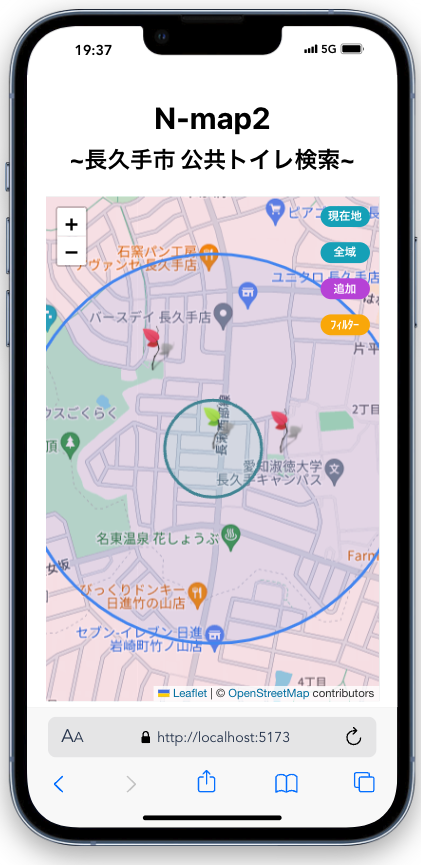
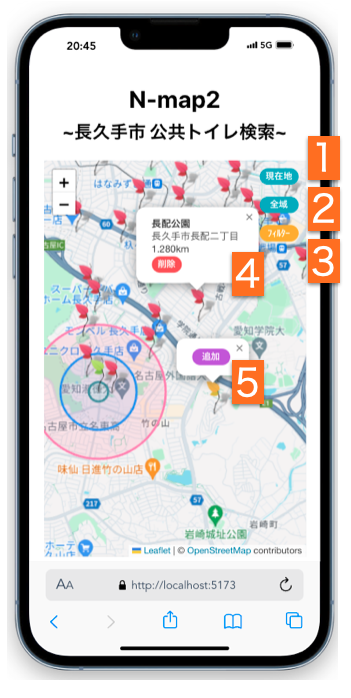
README 修正

diff --git a/frontend/src/components/Map/Map.jsx b/frontend/src/components/Map/Map.jsx
@@ -122,7 +122,7 @@ export const Map = (props) => {
     });
 
     return position === null ? null : (
-      <Marker position={position} icon={addIcon} draggable={true}>
+      <Marker position={position} icon={addIcon}>
         <Popup>
           <AddPoint position={position}></AddPoint>
         </Popup>

diff --git a/README.md b/README.md
@@ -47,9 +47,9 @@ https://github.com/YoshikiNishizuka/btc6-solo-nmap
 - 起動後、現在地を中心とした地図と**長久手市内**のトイレがマップ上に📍されています。
 - 機能1. 現在地 : 今見ている地図の縮尺のまま現在地中心へ移動します
 - 機能2. 全域 : 長久手を中心とし全体が見える縮尺で表示します。
-- 機能3. 追加 : 新規トイレを追加できます。名前、緯度、経度は必須です。
-- 機能4. フィルター : 車椅子、乳幼児、オスメイトがあるトイレをフィルターできます。
-- 機能4. 削除 : 消したいトイレのピンをクリック→ポップアップの削除ボタンで削除できます。
+- 機能3. フィルター : 車椅子、乳幼児、オスメイトがあるトイレをフィルターできます。
+- 機能4. 追加 : 追加したいMap上タップ→📍タップ→追加ボタン。追加ボタン前はタップし直しで位置調整可能です。
+- 機能5. 削除 : 消したいトイレのピンをクリック→ポップアップの削除ボタンで削除できます。
 
 ## 将来計画
 - コンテンツの英語化
